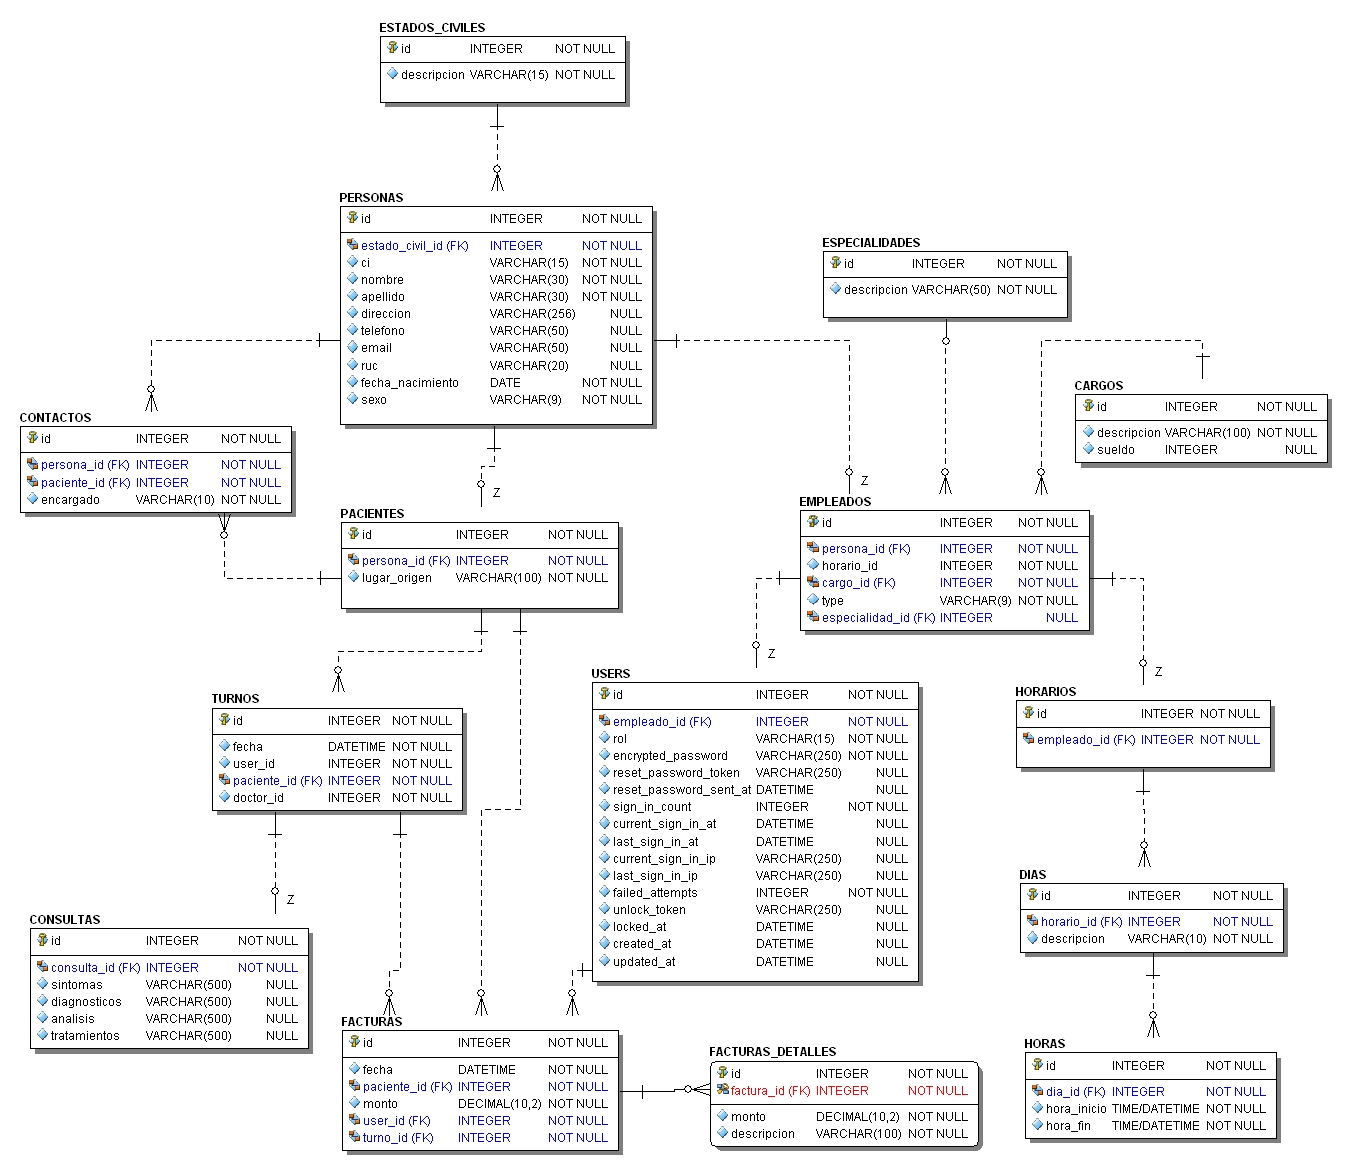
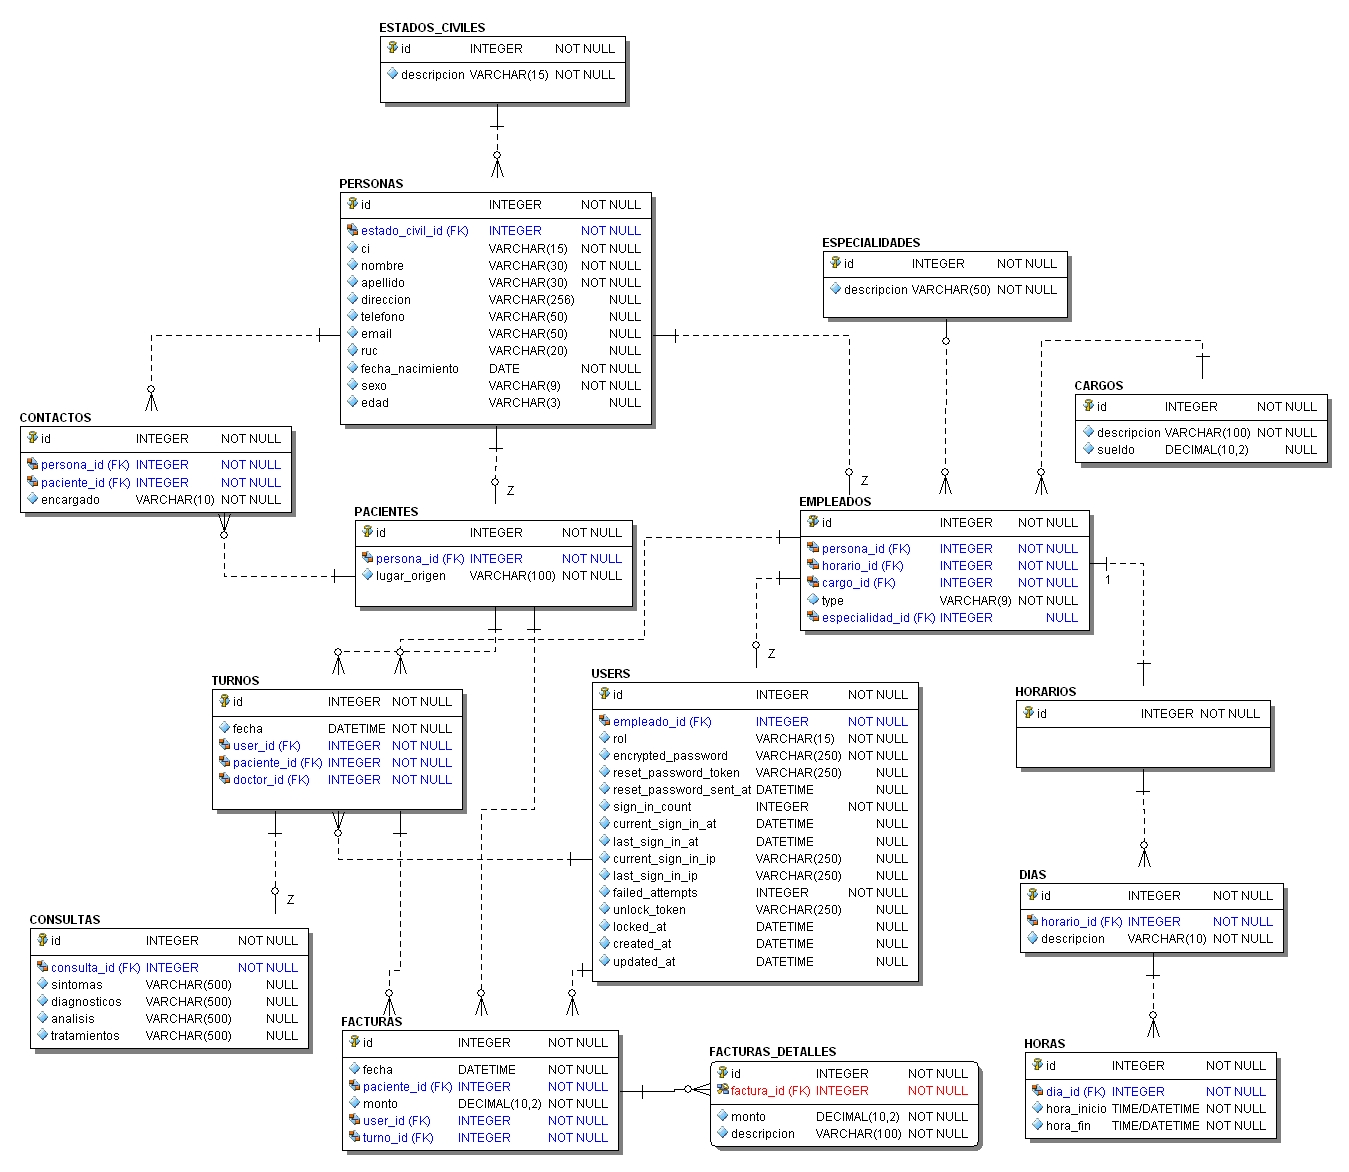
Se generaron las migraciones para estados_civiles, personas, especialidades, cargos, horarios y empleados #4

diff --git a/code/db/schema.rb b/code/db/schema.rb
@@ -11,7 +11,7 @@
 #
 # It's strongly recommended that you check this file into your version control system.
 
-ActiveRecord::Schema.define(version: 20160306083703) do
+ActiveRecord::Schema.define(version: 20160311023838) do
 
   # These are extensions that must be enabled in order to support this database
   enable_extension "plpgsql"
@@ -39,10 +39,68 @@ ActiveRecord::Schema.define(version: 20160306083703) do
   add_index "admins", ["reset_password_token"], name: "index_admins_on_reset_password_token", unique: true, using: :btree
   add_index "admins", ["unlock_token"], name: "index_admins_on_unlock_token", unique: true, using: :btree
 
+  create_table "cargos", force: :cascade do |t|
+    t.string   "descripcion", limit: 100, default: "",  null: false
+    t.decimal  "sueldo",                  default: 0.0
+    t.datetime "created_at"
+    t.datetime "updated_at"
+  end
+
+  add_index "cargos", ["descripcion"], name: "index_cargos_on_descripcion", unique: true, using: :btree
+
+  create_table "empleados", force: :cascade do |t|
+    t.integer  "persona_id",                             null: false
+    t.integer  "horario_id",                             null: false
+    t.integer  "cargo_id",                               null: false
+    t.integer  "especialidad_id"
+    t.string   "type",            limit: 9, default: "", null: false
+    t.datetime "created_at"
+    t.datetime "updated_at"
+  end
+
+  create_table "especialidades", force: :cascade do |t|
+    t.string   "descripcion", limit: 50, default: "", null: false
+    t.datetime "created_at"
+    t.datetime "updated_at"
+  end
+
+  add_index "especialidades", ["descripcion"], name: "index_especialidades_on_descripcion", unique: true, using: :btree
+
+  create_table "estados_civiles", force: :cascade do |t|
+    t.string   "descripcion", limit: 15, default: "", null: false
+    t.datetime "created_at"
+    t.datetime "updated_at"
+  end
+
+  add_index "estados_civiles", ["descripcion"], name: "index_estados_civiles_on_descripcion", unique: true, using: :btree
+
+  create_table "horarios", force: :cascade do |t|
+    t.datetime "created_at"
+    t.datetime "updated_at"
+  end
+
+  create_table "personas", force: :cascade do |t|
+    t.string   "ci",               limit: 15,  default: "", null: false
+    t.string   "nombre",           limit: 30,  default: "", null: false
+    t.string   "apellido",         limit: 30,  default: "", null: false
+    t.string   "direccion",        limit: 256, default: ""
+    t.string   "telefono",         limit: 50,  default: ""
+    t.string   "email",            limit: 50,  default: ""
+    t.string   "ruc",              limit: 20,  default: ""
+    t.datetime "fecha_nacimiento"
+    t.string   "sexo",             limit: 9,   default: ""
+    t.string   "edad",             limit: 3,   default: ""
+    t.integer  "estado_civil_id"
+    t.datetime "created_at"
+    t.datetime "updated_at"
+  end
+
+  add_index "personas", ["email"], name: "index_personas_on_email", unique: true, using: :btree
+
   create_table "users", force: :cascade do |t|
-    t.string   "email",                  limit: 50, default: "", null: false
     t.string   "username",               limit: 30, default: "", null: false
     t.string   "encrypted_password",                default: "", null: false
+    t.integer  "empleado_id",                                    null: false
     t.string   "reset_password_token"
     t.datetime "reset_password_sent_at"
     t.datetime "remember_created_at"
@@ -56,11 +114,17 @@ ActiveRecord::Schema.define(version: 20160306083703) do
     t.datetime "locked_at"
     t.datetime "created_at"
     t.datetime "updated_at"
+    t.string   "rol",                    limit: 15
   end
 
-  add_index "users", ["email"], name: "index_users_on_email", unique: true, using: :btree
   add_index "users", ["reset_password_token"], name: "index_users_on_reset_password_token", unique: true, using: :btree
   add_index "users", ["unlock_token"], name: "index_users_on_unlock_token", unique: true, using: :btree
   add_index "users", ["username"], name: "index_users_on_username", unique: true, using: :btree
 
+  add_foreign_key "empleados", "cargos"
+  add_foreign_key "empleados", "especialidades", column: "especialidad_id"
+  add_foreign_key "empleados", "horarios"
+  add_foreign_key "empleados", "personas"
+  add_foreign_key "personas", "estados_civiles", column: "estado_civil_id"
+  add_foreign_key "users", "empleados"
 end

diff --git a/code/db/migrate/20160311015817_create_personas.rb b/code/db/migrate/20160311015817_create_personas.rb
@@ -1,0 +1,24 @@
+class CreatePersonas < ActiveRecord::Migration
+  def change
+    create_table :personas do |t|
+      t.string   :ci        			  ,default: '' ,limit: Domain::CI,null: false
+      t.string   :nombre                  ,default: '' ,limit: Domain::NOMBRE ,null: false
+      t.string   :apellido                ,default: '' ,limit: Domain::NOMBRE ,null: false
+      t.string   :direccion               ,default: '' ,limit: Domain::DIRECCION
+      t.string   :telefono                ,default: '' ,limit: Domain::TELEFONO
+      t.string   :email                   ,default: '' ,limit: Domain::EMAIL
+      t.string   :ruc                     ,default: '' ,limit: Domain::RUC
+      t.datetime :fecha_nacimiento
+      t.string   :sexo                    ,default: '' ,limit: Domain::SEXO      
+      t.string   :edad                    ,default: '' ,limit: Domain::EDAD
+            
+      t.integer  :estado_civil_id     
+
+      t.timestamps
+    end
+
+    add_index :personas, :email, unique: true
+    add_foreign_key(:personas, :estados_civiles, column: 'estado_civil_id', options: 'ON DELETE RESTRICT')
+
+  end
+end

diff --git a/code/db/migrate/20160311023838_create_empleados.rb b/code/db/migrate/20160311023838_create_empleados.rb
@@ -1,0 +1,29 @@
+class CreateEmpleados < ActiveRecord::Migration
+  def change
+    create_table :empleados do |t|
+    
+    t.integer  :persona_id, null: false
+    t.integer  :horario_id, null: false
+    t.integer  :cargo_id,   null: false
+    t.integer  :especialidad_id
+
+	t.string   :type ,default: '' ,limit: Domain::TIPO_EMPLEADO, null: false
+
+    t.timestamps
+
+    end
+
+    add_foreign_key(:empleados, :personas, column: 'persona_id', options: 'ON DELETE RESTRICT')
+    add_foreign_key(:empleados, :horarios, column: 'horario_id', options: 'ON DELETE RESTRICT')
+    add_foreign_key(:empleados, :cargos, column: 'cargo_id', options: 'ON DELETE RESTRICT')
+    add_foreign_key(:empleados, :especialidades, column: 'especialidad_id', options: 'ON DELETE RESTRICT')
+
+
+    # Se hacen algunas modificaciones a la tabla users    
+
+    add_foreign_key(:users, :empleados, column: 'empleado_id', options: 'ON DELETE RESTRICT')
+
+    add_column :users, :rol, :string, limit: Domain::ROL
+
+  end  
+end

diff --git a/code/db/migrate/20160306060304_devise_create_users.rb b/code/db/migrate/20160306060304_devise_create_users.rb
@@ -1,10 +1,11 @@
 class DeviseCreateUsers < ActiveRecord::Migration
   def change
     create_table(:users) do |t|
-      ## Database authenticatable
-      t.string :email,              null: false, default: "", limit: Domain::EMAIL
-      t.string :username,           null: false, default: "", limit: Domain::NOMBRE
+      ## Database authenticatable      
+      t.string :username,           null: false, default: "", limit: Domain::USERNAME
       t.string :encrypted_password, null: false, default: ""
+
+      t.integer  :empleado_id,   null: false
 
       ## Recoverable
       t.string   :reset_password_token
@@ -35,8 +36,7 @@ class DeviseCreateUsers < ActiveRecord::Migration
 
       t.timestamps
     end
-
-    add_index :users, :email,                unique: true
+    
     add_index :users, :reset_password_token, unique: true
     add_index :users, :username,             unique: true
     # add_index :users, :confirmation_token,   unique: true

diff --git a/code/lib/domain.rb b/code/lib/domain.rb
@@ -1,10 +1,12 @@
 module Domain
 	NOMBRE    	= 30
+	USERNAME   	= 30
 	EMAIL     	= 50
 	CONTRASEÑA	= 20
 	DESCRIPCION5 = 500
 	DESCRIPCION2 = 200
 	DESCRIPCION4 = 400
+	CARGO = 100
 	SINTOMAS     = 500
 	PESO         = 10
 	TRATAMIENTO  = 300
@@ -12,7 +14,7 @@ module Domain
 	RUC          = 20
 	DIRECCION    = 256
 	TELEFONO     = 50
-	ESTADO_CIVIL = 10
+	ESTADO_CIVIL = 15
 	CI           = 15
 
 	EXPLORACION_FACIAL = 100
@@ -27,5 +29,7 @@ module Domain
 	MONTO     = 13
 	CANTIDAD  = 5	
 	
-	TIPO_PERSONA   = 9
+	TIPO_EMPLEADO   = 9
+	ESPECIALIDAD   = 50
+	ROL = 15
 end

diff --git a/code/db/migrate/20160306083703_devise_create_admins.rb b/code/db/migrate/20160306083703_devise_create_admins.rb
@@ -3,7 +3,7 @@ class DeviseCreateAdmins < ActiveRecord::Migration
     create_table(:admins) do |t|
       ## Database authenticatable
       t.string :email,              null: false, default: "", limit: Domain::EMAIL
-      t.string :username,           null: false, default: "", limit: Domain::NOMBRE
+      t.string :username,           null: false, default: "", limit: Domain::USERNAME
       t.string :encrypted_password, null: false, default: ""
 
       ## Recoverable

diff --git a/code/db/migrate/20160311021307_create_cargos.rb b/code/db/migrate/20160311021307_create_cargos.rb
@@ -1,0 +1,12 @@
+class CreateCargos < ActiveRecord::Migration
+  def change
+    create_table :cargos do |t|
+    	t.string   :descripcion ,default: '' ,limit: Domain::CARGO ,null: false
+    	t.decimal  :sueldo ,default: 0 
+
+    	t.timestamps
+    end
+    add_index :cargos, :descripcion, unique: true
+
+  end
+end

diff --git a/code/db/migrate/20160311015327_create_estados_civiles.rb b/code/db/migrate/20160311015327_create_estados_civiles.rb
@@ -1,0 +1,13 @@
+class CreateEstadosCiviles < ActiveRecord::Migration
+  def change
+    create_table :estados_civiles do |t|
+    
+    t.string :descripcion ,default: '' ,limit: Domain::ESTADO_CIVIL ,null: false
+
+    t.timestamps
+
+    end
+
+    add_index :estados_civiles, :descripcion, unique: true
+  end
+end

diff --git a/code/db/migrate/20160311021259_create_especialidades.rb b/code/db/migrate/20160311021259_create_especialidades.rb
@@ -1,0 +1,12 @@
+class CreateEspecialidades < ActiveRecord::Migration
+  def change
+    create_table :especialidades do |t|
+    	t.string :descripcion ,default: '' ,limit: Domain::ESPECIALIDAD ,null: false
+
+    	t.timestamps
+
+    end
+    
+    add_index :especialidades, :descripcion, unique: true
+  end
+end

diff --git a/code/db/migrate/20160311021321_create_horarios.rb b/code/db/migrate/20160311021321_create_horarios.rb
@@ -1,0 +1,8 @@
+class CreateHorarios < ActiveRecord::Migration
+  def change
+    create_table :horarios do |t|
+
+    	t.timestamps
+    end
+  end
+end
